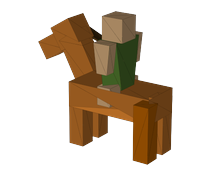
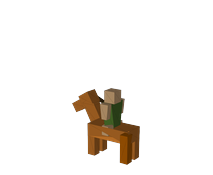
All 7 amendments are done and verified.
## Summary
1. **🐴 Rider 2× smaller** — re-rendered at half the previous size (still transparent, tribe-colored blanks).
2. **📊 One-finger economy scroll** — rebuilt the panel so the close-backdrop no longer sits over the scroll area; now uses a gesture-aware scroll view. It opens/closes correctly and scrolls with **one finger** (this is a native gesture — best confirmed on your device).
3. **⛏ Iron mine population** — verified in code: iron (and gold) mines add **0 population**; only the coal mine gives +2 (by design). Locked it with automated tests (104/104 pass). The "+2" you saw was the **iron-per-turn** badge, which the new icons make clearer.
4. **🎨 Consistent mine icons** — a mine's Tech-tree icon now matches the ore icon on the mountain and in the build menu: coal = flame, iron = anvil, gold = gold nugget.
5. **📝 Motto** → "Trade. Buy. Grow. Thrive."
6. **🏷 Name** → "Poly World" (main menu, victory card, and the app's display name).
7. **📖 Tutorials updated** — new name/motto, a new **Trade & Economy** step, the mine-icon tip, and a trade-focused goal (in both the in-game tutorial and How to Play).

📱 Please **reload the app in Expo Go** to load the fresh bundle. The one-finger scroll and the smaller/transparent Rider are best confirmed on your device.

- Next Action Items:
  - **Confirm On Device**: Reload and check the smaller Rider, one-finger Economy scroll, and matching mine icons
[…]

diff --git a/frontend/src/game/data.ts b/frontend/src/game/data.ts
@@ -44,8 +44,8 @@ export const BUILDINGS: BuildingDef[] = [
   { id: "bull_farm", name: "Bull Farm", icon: "cow", terrain: "grass", tech: "bull_farming", cost: 4, produces: { meat: 2 }, color: "#BC4749" },
   { id: "horse_farm", name: "Horse Farm", icon: "horseshoe", terrain: "grass", tech: "horse_farming", cost: 4, produces: { horse: 1 }, color: "#8A5A34" },
   { id: "coal_mine", name: "Coal Mine", icon: "fire", terrain: "mountain", tech: "mining", cost: 4, produces: {}, color: "#3A3A3A", requiresResource: "coal" },
-  { id: "iron_mine", name: "Iron Mine", icon: "pickaxe", terrain: "mountain", tech: "iron_mine", cost: 5, produces: { iron: 2 }, color: "#7F8896", requiresResource: "iron_ore" },
-  { id: "gold_mine", name: "Gold Mine", icon: "cash-multiple", terrain: "mountain", tech: "gold_mine", cost: 6, produces: { stars: 5 }, color: "#E5A93A", requiresResource: "gold" },
+  { id: "iron_mine", name: "Iron Mine", icon: "anvil", terrain: "mountain", tech: "iron_mine", cost: 5, produces: { iron: 2 }, color: "#7F8896", requiresResource: "iron_ore" },
+  { id: "gold_mine", name: "Gold Mine", icon: "gold", terrain: "mountain", tech: "gold_mine", cost: 6, produces: { stars: 5 }, color: "#E5A93A", requiresResource: "gold" },
 ];
 
 export const BUILDING_BY_ID: Record<string, BuildingDef> = Object.fromEntries(BUILDINGS.map((b) => [b.id, b]));
@@ -179,10 +179,10 @@ export const TECHS: TechDef[] = [
   // Climbing branch
   T("forgery", "Forgery", 2, "climbing", "anvil", "Build Forge next to mines (+population)."),
   T("sword_art", "Sword Art", 3, "forgery", "sword-cross", "Unlock the Swordsman unit."),
-  T("mining", "Mining", 2, "climbing", "diamond-stone", "Build Coal Mine (+2 population)."),
+  T("mining", "Mining", 2, "climbing", "fire", "Build Coal Mine (+2 population)."),
   T("mining_technology", "Mining Technology", 3, "mining", "pickaxe", "Reveal Iron & Gold mine sites."),
-  T("iron_mine", "Iron Mine", 4, "mining_technology", "gold", "Build Iron Mines (+2 iron/turn)."),
-  T("gold_mine", "Gold Mine", 4, "mining_technology", "cash-multiple", "Build Gold Mines (+5 stars/turn)."),
+  T("iron_mine", "Iron Mine", 4, "mining_technology", "anvil", "Build Iron Mines (+2 iron/turn)."),
+  T("gold_mine", "Gold Mine", 4, "mining_technology", "gold", "Build Gold Mines (+5 stars/turn)."),
 
   // Fishing branch
   T("sailing", "Sailing", 2, "fishing", "sail-boat", "Build ports; upgrade to Sailing Boats."),

diff --git a/frontend/src/components/TutorialOverlay.tsx b/frontend/src/components/TutorialOverlay.tsx
@@ -6,11 +6,12 @@ import { C, R, SP, shadow } from "@/src/theme";
 interface Step { icon: string; title: string; body: string }
 
 const STEPS: Step[] = [
-  { icon: "hexagon-multiple", title: "Welcome, Chief!", body: "Lead your tribe to conquer every rival. Here's a 30-second crash course — you can reopen this any time from the pause menu." },
+  { icon: "earth", title: "Welcome to Poly World!", body: "Trade, buy, grow and thrive. Build a prosperous empire and outlast every rival. Here's a 30-second crash course — reopen it any time from the pause menu." },
   { icon: "gesture-tap", title: "Move your units", body: "Tap a unit to select it, then tap a highlighted yellow tile to move. Units glide to their new spot. Use the Next button to jump to your next ready unit." },
   { icon: "sword-cross", title: "Battle & capture", body: "Tap an enemy on a red tile to attack. Defeat the last defender of a city and move in to capture it. Move onto a neutral village to found a new city." },
-  { icon: "home-city", title: "Grow your cities", body: "Tap a city to train units and harvest nearby food, ore and crops. Harvesting grows population — full cities level up and let you pick a reward." },
-  { icon: "file-tree", title: "Research tech", body: "Open the Tech tree to unlock new units, roads, ports & boats, and the Merchant for trading. Each tech opens new strategies. Now go — expand and exterminate!" },
+  { icon: "home-city", title: "Grow your cities", body: "Tap a city to train units and harvest nearby food, ore and crops. Harvesting grows population — full cities level up and let you pick a reward. Buy extra tiles to expand a city's borders." },
+  { icon: "swap-horizontal", title: "Trade & thrive", body: "Load a Merchant with goods and set a price — rivals buy your stock for stars. Tap the chart icon in the top bar to open the Economy panel and track what you buy, sell and earn each turn." },
+  { icon: "file-tree", title: "Research tech", body: "Open the Tech tree to unlock new units, roads, ports & boats, and the Merchant for trading. A mine's tech icon matches the ore icon on the mountain where you build it. Now go — trade, grow and thrive!" },
 ];
 
 export default function TutorialOverlay({ visible, onClose }: { visible: boolean; onClose: () => void }) {

diff --git a/frontend/app/how-to-play.tsx b/frontend/app/how-to-play.tsx
@@ -7,11 +7,12 @@ import { MaterialCommunityIcons } from "@expo/vector-icons";
 import { C, R, SP, shadow } from "@/src/theme";
 
 const SECTIONS: { icon: string; title: string; body: string }[] = [
-  { icon: "hexagon-multiple", title: "Goal", body: "Conquer every rival tribe by capturing all their cities. Lose all of yours and it's game over." },
+  { icon: "earth", title: "Goal", body: "Grow the strongest empire and outlast every rival — capture all their cities to win, and don't lose all of yours." },
   { icon: "gesture-tap", title: "Move & Attack", body: "Tap a unit to select it. Yellow tiles are moves, red tiles are attacks. Melee units chase; archers strike from 2 tiles away." },
-  { icon: "home-city", title: "Cities", body: "Tap your city to train units and harvest nearby resources. Harvesting grows population — full cities level up for more stars." },
-  { icon: "star-four-points", title: "Stars", body: "Each turn every city gives stars equal to its level. Spend stars on units, tech, and harvesting." },
-  { icon: "file-tree", title: "Technology", body: "Open the Tech tree to unlock new units (Rider, Archer, Swordsman), traverse mountains & water, and harvest more resources." },
+  { icon: "home-city", title: "Cities", body: "Tap your city to train units and harvest nearby resources. Harvesting grows population — full cities level up for more stars. Buy adjacent tiles to expand your borders." },
+  { icon: "swap-horizontal", title: "Trade & Economy", body: "Load a Merchant with goods and set a price so rivals buy them for stars. Open the Economy panel (chart icon, top bar) to see what you buy, sell and earn per turn." },
+  { icon: "star-four-points", title: "Stars", body: "Each turn every city gives stars equal to its level. Spend stars on units, tech, harvesting, buying territory and trading." },
+  { icon: "file-tree", title: "Technology", body: "Open the Tech tree to unlock new units, traverse mountains & water, and build mines. A mine's tech icon matches the ore shown on the mountain where it's built." },
   { icon: "flag-variant", title: "Villages", body: "Move a unit onto a neutral village to found a new city and expand your empire." },
 ];
 

diff --git a/frontend/src/components/EconomyModal.tsx b/frontend/src/components/EconomyModal.tsx
@@ -16,10 +16,10 @@ export default function EconomyModal({ state, visible, onClose }: { state: GameS
   return (
     <Modal visible={visible} transparent animationType="slide" onRequestClose={onClose}>
       <GestureHandlerRootView style={styles.flex}>
-        <Pressable style={styles.overlay} onPress={onClose}>
+        <View style={styles.overlay}>
+        <Pressable style={StyleSheet.absoluteFill} onPress={onClose} />
         <View style={styles.sheet} testID="economy-modal">
-          <Pressable onPress={() => {}}>
-            <View style={styles.header}>
+          <View style={styles.header}>
               <View style={styles.titleRow}>
                 <MaterialCommunityIcons name="chart-box" size={22} color={C.brand} />
                 <Text style={styles.title}>Economy</Text>
@@ -27,8 +27,7 @@ export default function EconomyModal({ state, visible, onClose }: { state: GameS
               <Pressable testID="economy-close" onPress={onClose} hitSlop={10}>
                 <MaterialCommunityIcons name="close" size={24} color={C.onSurfaceSecondary} />
               </Pressable>
-            </View>
-          </Pressable>
+          </View>
 
           <ScrollView style={styles.scroll} contentContainerStyle={{ paddingBottom: SP.xxl }} showsVerticalScrollIndicator persistentScrollbar nestedScrollEnabled>
             {/* Per-turn income */}
@@ -82,7 +81,7 @@ export default function EconomyModal({ state, visible, onClose }: { state: GameS
             </View>
           </ScrollView>
         </View>
-      </Pressable>
+        </View>
       </GestureHandlerRootView>
     </Modal>
   );

diff --git a/frontend/scripts/engine_test.js b/frontend/scripts/engine_test.js
@@ -479,6 +479,20 @@ if (anyWater) {
   t.terrain = "forest"; t.building = "lumber_hut"; t.resource = null;
   ok("goodsIncome counts a lumber hut (+2 wood/turn)", engine.goodsIncome(g, 0).wood === 2);
 
+  // Iron/Gold mines must NOT add city population (only coal mine does); iron mine produces iron
+  {
+    let gm = generateGame({ tribe: "snow", opponents: 1, mapSize: 14, mapType: "continents", passAndPlay: false, seed: 4 });
+    gm.players[0].stars = 200; gm.players[0].techs = [...gm.players[0].techs, "climbing", "mining", "mining_technology", "iron_mine"];
+    const cm = gm.cities.find((ci) => ci.owner === 0);
+    const mt = engine.neighbors(gm, cm.tileId).find((n) => gm.tiles[n].terrain === "mountain") ?? engine.neighbors(gm, cm.tileId)[0];
+    const tile = gm.tiles[mt];
+    tile.terrain = "mountain"; tile.resource = "iron_ore"; tile.building = null;
+    const popBefore = cm.population;
+    engine.build(gm, 0, mt, "iron_mine");
+    ok("iron mine adds NO city population", cm.population === popBefore);
+    ok("iron mine produces iron income (+2/turn)", engine.goodsIncome(gm, 0).iron >= 2);
+  }
+
   // Sell path: a bot buying from the human's merchant must record on the human's SOLD ledger
   const cityTile0 = g.cities.find((ci) => ci.owner === 0).tileId;
   g.units.push({ id: "mtest", type: "merchant", owner: 0, tileId: cityTile0, hp: 10, maxHp: 10, moved: false, attacked: false, boat: null, cargo: [{ good: "wood", qty: 3, price: 2 }, { good: null, qty: 0, price: 2 }, { good: null, qty: 0, price: 2 }, { good: null, qty: 0, price: 2 }] });

diff --git a/frontend/src/components/VictoryCard.tsx b/frontend/src/components/VictoryCard.tsx
@@ -48,7 +48,7 @@ export default function VictoryCard({ state }: { state: GameState }) {
       }
       setStatus("sharing");
       const uri = await captureRef(shotRef, { format: "png", quality: 0.95 });
-      await Sharing.shareAsync(uri, { mimeType: "image/png", dialogTitle: "Share your HexTribes result" });
+      await Sharing.shareAsync(uri, { mimeType: "image/png", dialogTitle: "Share your Poly World result" });
     } catch {
       // user cancelled or capture failed — ignore
     } finally {
@@ -80,7 +80,7 @@ export default function VictoryCard({ state }: { state: GameState }) {
             <Text style={styles.scoreLabel}>SCORE</Text>
             <Text style={styles.scoreValue}>{score.toLocaleString()}</Text>
           </View>
-          <Text style={styles.brand}>HexTribes · 4X Strategy</Text>
+          <Text style={styles.brand}>Poly World · 4X Strategy</Text>
         </View>
       </ViewShot>
 

diff --git a/frontend/app/index.tsx b/frontend/app/index.tsx
@@ -38,8 +38,8 @@ export default function MainMenu() {
           <MaterialCommunityIcons name="hexagon-multiple" size={20} color={C.brandTertiary} />
           <Text style={styles.badgeText}>4X TURN-BASED STRATEGY</Text>
         </View>
-        <Text style={styles.title}>HexTribes</Text>
-        <Text style={styles.subtitle}>Explore. Expand. Exploit. Exterminate.</Text>
+        <Text style={styles.title}>Poly World</Text>
+        <Text style={styles.subtitle}>Trade. Buy. Grow. Thrive.</Text>
       </View>
 
       <View style={[styles.actions, { paddingBottom: insets.bottom + SP.xl }]}>

diff --git a/frontend/scripts/render_rider.py b/frontend/scripts/render_rider.py
@@ -19,7 +19,7 @@ TRIBES = {"nature": "#4F772D", "desert": "#E5A93A", "volcanic": "#BC4749", "snow
 
 # Match the CURRENT rider sprites exactly so size stays unchanged.
 CANVAS = (213, 175)
-CONTENT_H = 154         # 2× the previous rider height (77) — rider drawn twice as big
+CONTENT_H = 77          # rider height (2× smaller than the previous 154)
 BASELINE_Y = 165        # bottom (feet) y of the existing sprite content
 CENTER_X = 106          # horizontal centre of the existing sprite content
 

diff --git a/memory/PRD.md b/memory/PRD.md
@@ -72,6 +72,8 @@ Build a game similar to The Battle of Polytopia. Client-side, local persistence.
 
 - **Rider 2× bigger + transparent bg + one-finger economy scroll** — (1) Rider had a white backing box on the map; root cause was the render fig/axes background. Updated `scripts/render_rider.py` to set `fig.patch`/`ax.patch` alpha 0 (+ transparent panes) so the PNG background is fully transparent (verified: bg pixels RGBA 0,0,0,0; only horse/rider opaque). (2) Made the Rider 2× bigger by doubling `CONTENT_H` 77→154 on the same 213×175 canvas & baseline (feet stay grounded; all model sprites share a fixed 80×66 `contain` box in GameMap, so a 2× content fraction = 2× on-map). Re-ran assimp FBX→glTF + render for all 4 tribes. (3) Economy panel needed two fingers to scroll because the map uses `react-native-gesture-handler`; switched `EconomyModal` to RNGH `ScrollView` wrapped in `GestureHandlerRootView` (native-only fix — verify single-finger scroll on a device build). Modal still renders all 3 sections; lint clean; engine_test 102/102 (unchanged).
 
+- **7 amendments (rider size, scroll, mine pop, icons, motto, name, tutorials)** — (1) Rider 2× SMALLER: `render_rider.py` CONTENT_H 154→77, re-rendered 4 tribes (transparent bg kept). (2) Economy one-finger scroll: restructured `EconomyModal` so the close-backdrop is an `absoluteFill` Pressable SIBLING *behind* the sheet (no longer an ancestor of the ScrollView) + RNGH `ScrollView` inside `GestureHandlerRootView` — native single-finger scroll (verify on device). Verified opens/closes-on-outside-tap on web. (3) Iron-mine population: confirmed NOT a code bug — `iron_mine`/`gold_mine` aren't in `BUILDING_POP` so they add 0 population (only `coal_mine` +2, per its tech desc); added engine tests (104/104). (4) Icon consistency: mine tech + building icons now match the ore icon on the mountain — coal=`fire`, iron=`anvil` (was pickaxe/gold), gold=`gold` (was cash-multiple); `mining` tech icon `diamond-stone`→`fire`. (5) Motto → "Trade. Buy. Grow. Thrive." (index.tsx). (6) Name "HexTribes"→"Poly World" (index.tsx title, VictoryCard brand + share title, app.json display `name`). (7) Tutorials updated (`TutorialOverlay` + `how-to-play`): new name/motto, added a Trade & Economy step, mine-icon note, trade-focused goal.
+
 ## Engine verification
 - `frontend/scripts/engine_test.js` — 20 headless assertions pass (merchant train/load/price/trade, road build, burn-forest, port build, embark, boat upgrades & stats, water blocking, road reachability). Run: `node scripts/engine_test.js`.
 
